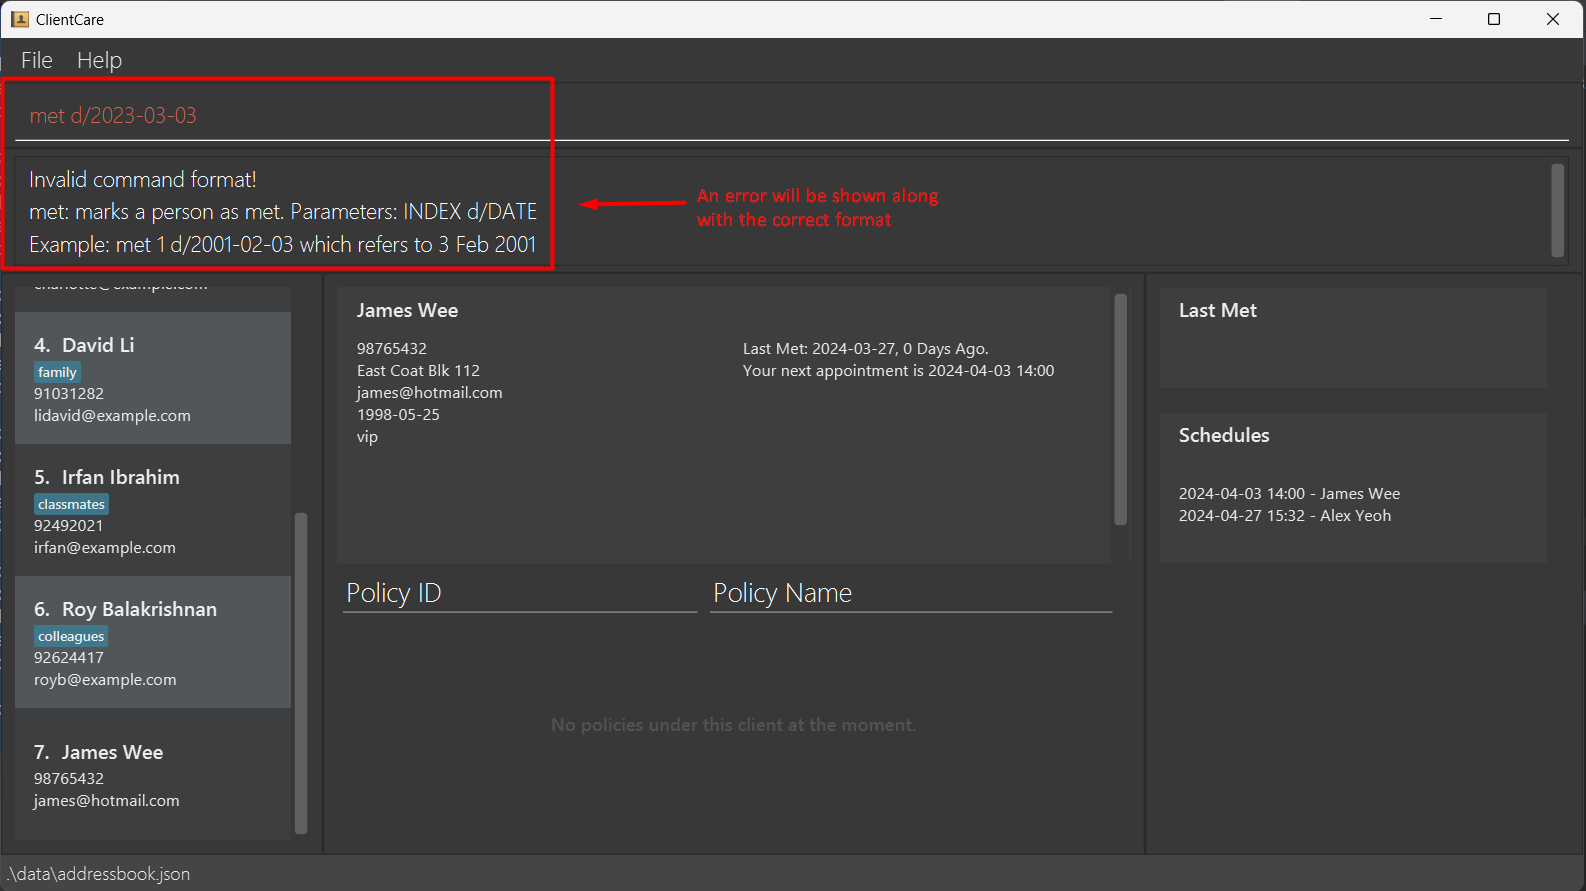
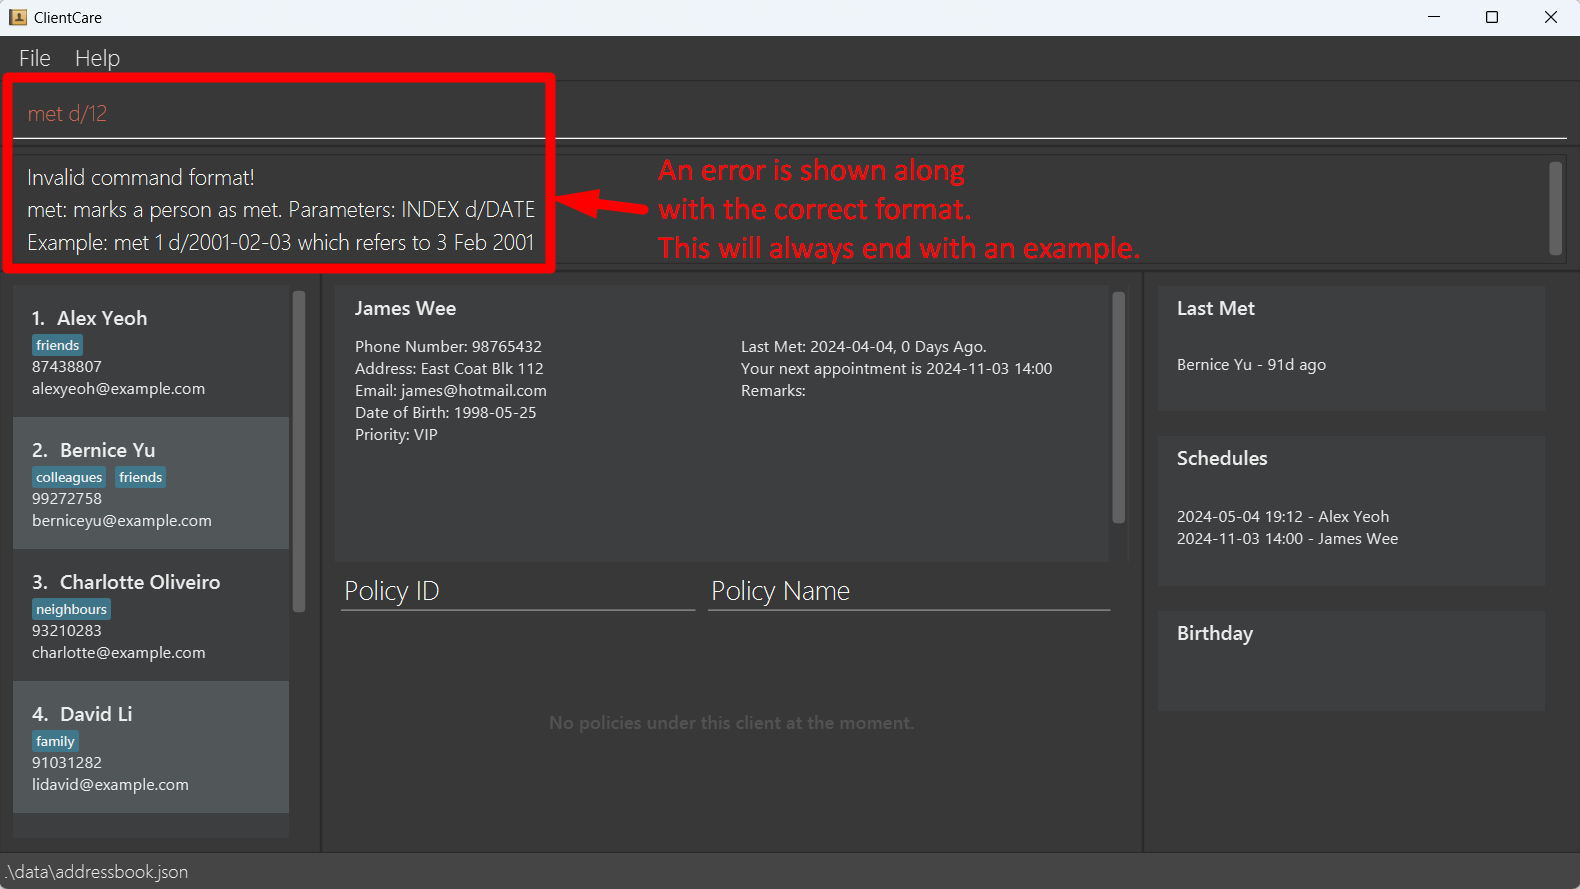
Update UG images and Set Command error

diff --git a/src/main/java/seedu/address/logic/commands/SetCommand.java b/src/main/java/seedu/address/logic/commands/SetCommand.java
@@ -17,12 +17,11 @@ import seedu.address.storage.SetStorage;
 public class SetCommand extends Command {
     public static final String COMMAND_WORD = "set";
 
-    public static final String MESSAGE_USAGE = COMMAND_WORD + ": sets the LastMet overdue time period. "
+    public static final String MESSAGE_USAGE = COMMAND_WORD + ": Sets the LastMet overdue time period. "
             + "Parameters: "
-            + "NUMBER_OF_DAYS "
+            + "NUMBER_OF_DAYS (must be an integer and be at least 0.)\n"
             + "Example: " + COMMAND_WORD + " "
-            + "90.\n "
-            + "NUMBER_OF_DAYS must be an integer and be at least 0.";
+            + "90.";
 
     public static final String MESSAGE_SUCCESS = "LastMet Overdue time period has been set to %1$s days.";
     /**

diff --git a/docs/UserGuide.md b/docs/UserGuide.md
@@ -188,7 +188,7 @@ You will learn how the different parts of ClientCare look and work in this secti
 ClientCare has **6** components in its GUI. Different commands affect parts of the Display.
 You can refer to the [Quick Tutorial](#quick-tutorial) to see how the different parts of the display change when entering commands!
 
-![Display](images/ug/GUI%20v1.2%20Graphic.png)
+![Display](images/ug/GUI%20v1.3%20Graphic.png)
 
 
 <div style="page-break-after: always;"></div>
@@ -269,14 +269,14 @@ Type the following into the Command Input:
 
 ![success_add](images/ug/success_add.png =600x)
 
-
+<div style="page-break-after: always;"></div>
 
 3. Now let's schedule an appointment with James Wee 7 days from now. From the Client List, James has an index of `7`.
-When this guide was released, today was 27 March 2024. Hence, let's set the appointment at 3 April 2024 2pm.
+When this guide was released, today was 4 April 2024. Hence, let's set the appointment at 11 April 2024 2pm.
 Let's type the following command into the Command Input:
 
 
-`schedule 7 d/2024-04-03 14:00`
+`schedule 7 d/2024-04-11 14:00`
 
 ![schedule](images/ug/schedule.png =600x)
 
@@ -300,6 +300,13 @@ ClientCare will show us the error along with the correct command format in the F
 
 
 ![error](images/ug/error.png =600x)
+
+<box type="info">
+
+**Note:** The Feedback Display may be unable to show the entire error message at once. You can scroll down in the
+Feedback Display to see the whole message. All error messages due to invalid formatting will end with an example.
+
+</box>
 
 --------------------------------------------------------------------------------------------------------------------
 <div style="page-break-after: always;"></div>
@@ -780,6 +787,10 @@ Furthermore, certain edits can cause the ClientCare to behave in unexpected ways
 **When using multiple screens**, if you move the application to a secondary screen, and later switch to using only the primary screen, the application will open off-screen. The remedy is to delete the `preferences.json` file created by the application before running the application again.
 
 --------------------------------------------------------------------------------------------------------------------
+
+<div style="page-break-after: always;"></div>
+
+# Glossary
 
 <div style="page-break-after: always;"></div>
 
